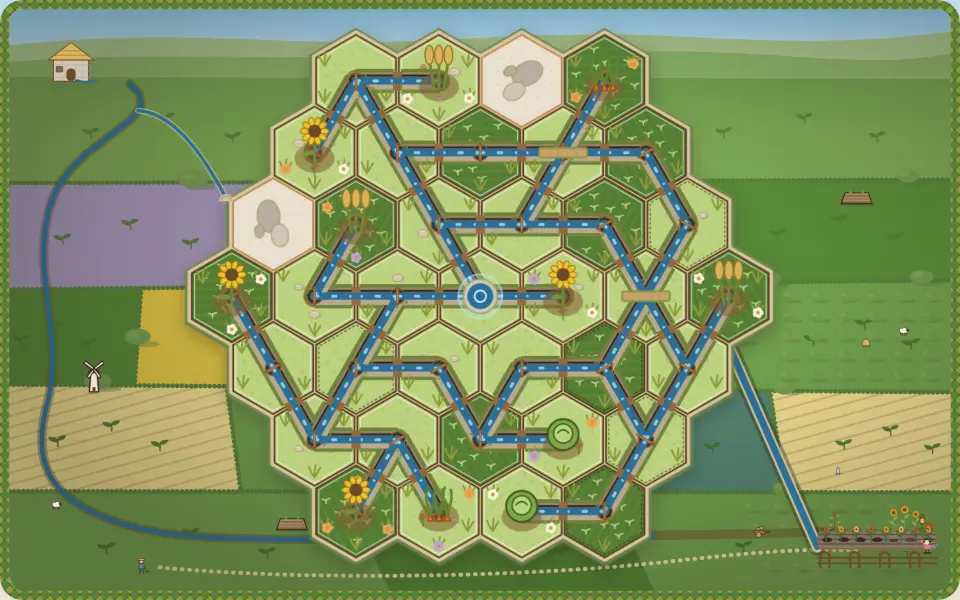
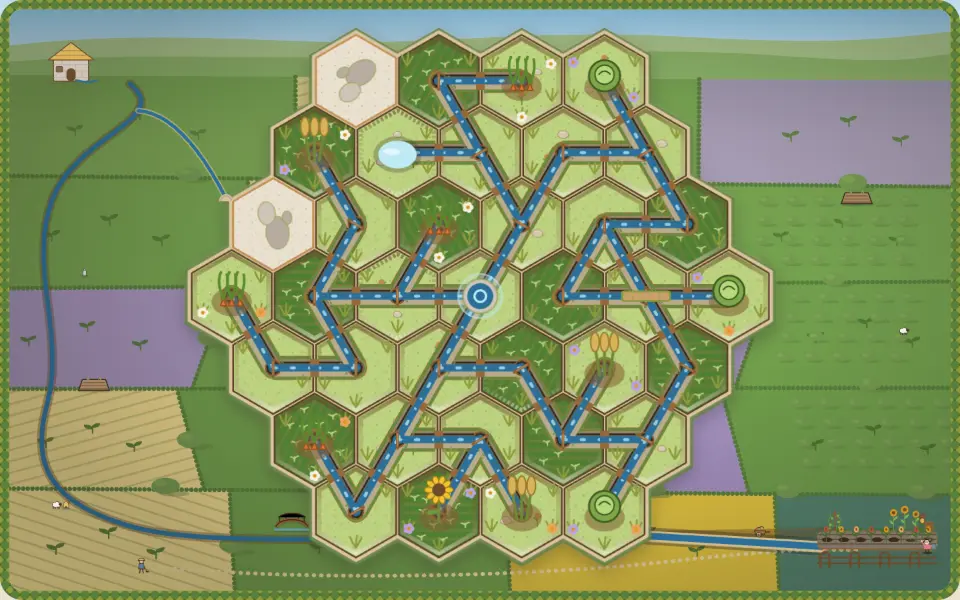
Runnel: each plot's cut edge, shaded under the rim and lit at its foot (6 px at D), so the tiles read as crafted sunken plots (plan item 582 done); key art re-shot
Claude-Session: https://claude.ai/code/session_01SimvMN1RHBGCWN7Eo7MzhN

diff --git a/e2e-site/runnel-greened.spec.ts b/e2e-site/runnel-greened.spec.ts
@@ -115,3 +115,17 @@ test('plan item 567: Bea waves as she reaches her garden at a solve, and only th
   await expect(wave).toBeAttached()
   expect(await wave.evaluate((el) => getComputedStyle(el).animationName)).toBe('bea-wave')
 })
+
+// Plan item 582: each plot has a cut edge (6 px at D, shaded at the top and lit at the foot), and a solved board's
+// every connected ditch carries visible water.
+test('plan item 582: the tiles have a 6 px cut edge at D and a solve fills every ditch', async ({ page }) => {
+  const vp = page.viewportSize()!
+  await page.addInitScript(() => localStorage.setItem('runnel:v1', JSON.stringify({ version: 1, lessonDone: true, seenHelp: true, results: {} })))
+  await page.goto('/runnel/?shotsolve')
+  await page.locator('[data-last]').waitFor()
+  const bevel = await page.locator('.cell:not(.stone) .tile-bevel').first().evaluate((e) => ({ w: getComputedStyle(e).strokeWidth, s: getComputedStyle(e).stroke }))
+  expect(bevel.s).toContain('tile-cut')
+  if (vp.width >= 1100) expect(parseFloat(bevel.w)).toBeGreaterThanOrEqual(6)
+  await page.locator('[data-last]').click({ force: true })
+  await expect.poll(() => page.evaluate(() => document.querySelectorAll('#board .cell.channel:not(.wet), #board .cell.field:not(.wet)').length), { timeout: 5000 }).toBe(0)
+})

diff --git a/games/runnel/src/board.ts b/games/runnel/src/board.ts
@@ -138,6 +138,12 @@ export class Board {
 
     // Plan item 138: each tile's ditches end inside its own dark rim (they used to run over it into the seam). The
     // clip is in the tile's own frame and doesn't turn with the piece, so it holds at every rotation.
+    // Plan item 582: each plot's cut edge, shaded where the floor's rim overhangs it (the top) and lit where the cut
+    // faces the sky (the foot), so a tile reads as a crafted, sunken plot rather than a flat print.
+    const cut = el('linearGradient', { id: 'tile-cut', x1: '0', y1: '0', x2: '0', y2: '1' }, defs)
+    el('stop', { offset: '0', class: 'tc-shade' }, cut)
+    el('stop', { offset: '0.45', class: 'tc-mid' }, cut)
+    el('stop', { offset: '1', class: 'tc-lit' }, cut)
     const tileClip = el('clipPath', { id: 'tile-clip' }, defs)
     el('polygon', { points: hexPoints(S * 0.965 - 2.6) }, tileClip)
     const tiles = el('g', { class: 'tiles' }, svg)
@@ -320,7 +326,7 @@ export class Board {
       }
     }
 
-    el('polygon', { class: 'tile-bevel', points: hexPoints(S * 0.9) }, root)
+    el('polygon', { class: 'tile-bevel', points: hexPoints(S * 0.88) }, root)
 
     const view: CellView = { root, piece: null, water: [], spokeDirs: [], banks: [], angle: cell.rot * 60 }
 

diff --git a/games/runnel/src/styles.css b/games/runnel/src/styles.css
@@ -5117,3 +5117,11 @@ body:has(.tiles > g.cell.lesson-target) #hint { visibility: hidden; }
   body.in-lesson .app[data-valley-say=''] .hud > .lesson-panel[data-notebook] { flex: 1 1 auto; display: flex; flex-direction: column; }
   body.in-lesson .app[data-valley-say=''] .lesson-panel[data-notebook] .lc-next { margin-top: auto; }
 }
+
+/* Plan item 582: the plot's cut edge, 6 px at every board size: shaded at the top where the floor's rim overhangs it,
+   lit at the foot (board.ts's #tile-cut), so the tiles read as crafted sunken plots (item 389's no-plate look kept). */
+.tc-shade { stop-color: color-mix(in srgb, var(--soil) 62%, transparent); }
+.tc-mid { stop-color: color-mix(in srgb, var(--soil) 14%, transparent); }
+.tc-lit { stop-color: color-mix(in srgb, var(--paper) 58%, transparent); }
+.cell:not(.stone) .tile-bevel { stroke: url(#tile-cut); stroke-width: 6px; }
+@media (max-width: 600px) { .cell:not(.stone) .tile-bevel { stroke-width: 4px; } }

diff --git a/docs/plan/two-week-plan.md b/docs/plan/two-week-plan.md
@@ -5710,7 +5710,7 @@ Progress (lane B, 2026-11-19 02:50, slices 1-2, `2c24709`, `86ee3f0`): each towe
 - **Accept:** board 300 px+ wide at 390x844 and nothing over it; title specs pass at P; D unchanged (shots).
 - **Size:** 1
 
-## 582. [ ] Runnel tiles as crafted objects, with water you can see *(lane B, in progress)*
+## 582. [x] Runnel tiles as crafted objects, with water you can see *(done 2026-11-21 02:40, lane B: checked first: a solved board already carries blue water in every connected ditch, the turns already overshoot (150 ms, 1.45 back-ease) and wet fields already glint (item 365), so the critique's shot was mid-play. Built: each plot's cut edge, 6 px at D (4 at P), shaded where the floor's rim overhangs it and lit at its foot (`#tile-cut` gradient in board.ts, the bevel inside the rim so runnel-tiles' edge contrast holds), item 389's sunken-plot look kept. New spec in runnel-greened (6 px edge at D, no dry channel or field after a solve); 142 Runnel specs pass P and D; key art re-shot. Shots scratchpad rs-a2.png)*
 - **Why:** `plan1121a/runnel-D` 580-1230 x 110-745: pale parchment hexes with thin beige grooves; a connected tile (795-1000) shows little water in its channel. (Check against item 6's running rivers first: it may only be the shot's moment.)
 - **Build:** bevelled tile bodies with a stone-lined groove; connected grooves carry a glossy water ribbon from the spring outward (~250 ms a tile), a field sparkles when wet; turns overshoot a little (`games/runnel/src/`).
 - **Accept:** blue water pixels (sat > 0.35) in every connected groove of a solved shot at P and D; tile edge 6 px+ at D; Runnel lesson and daily specs pass; key art re-shot.
